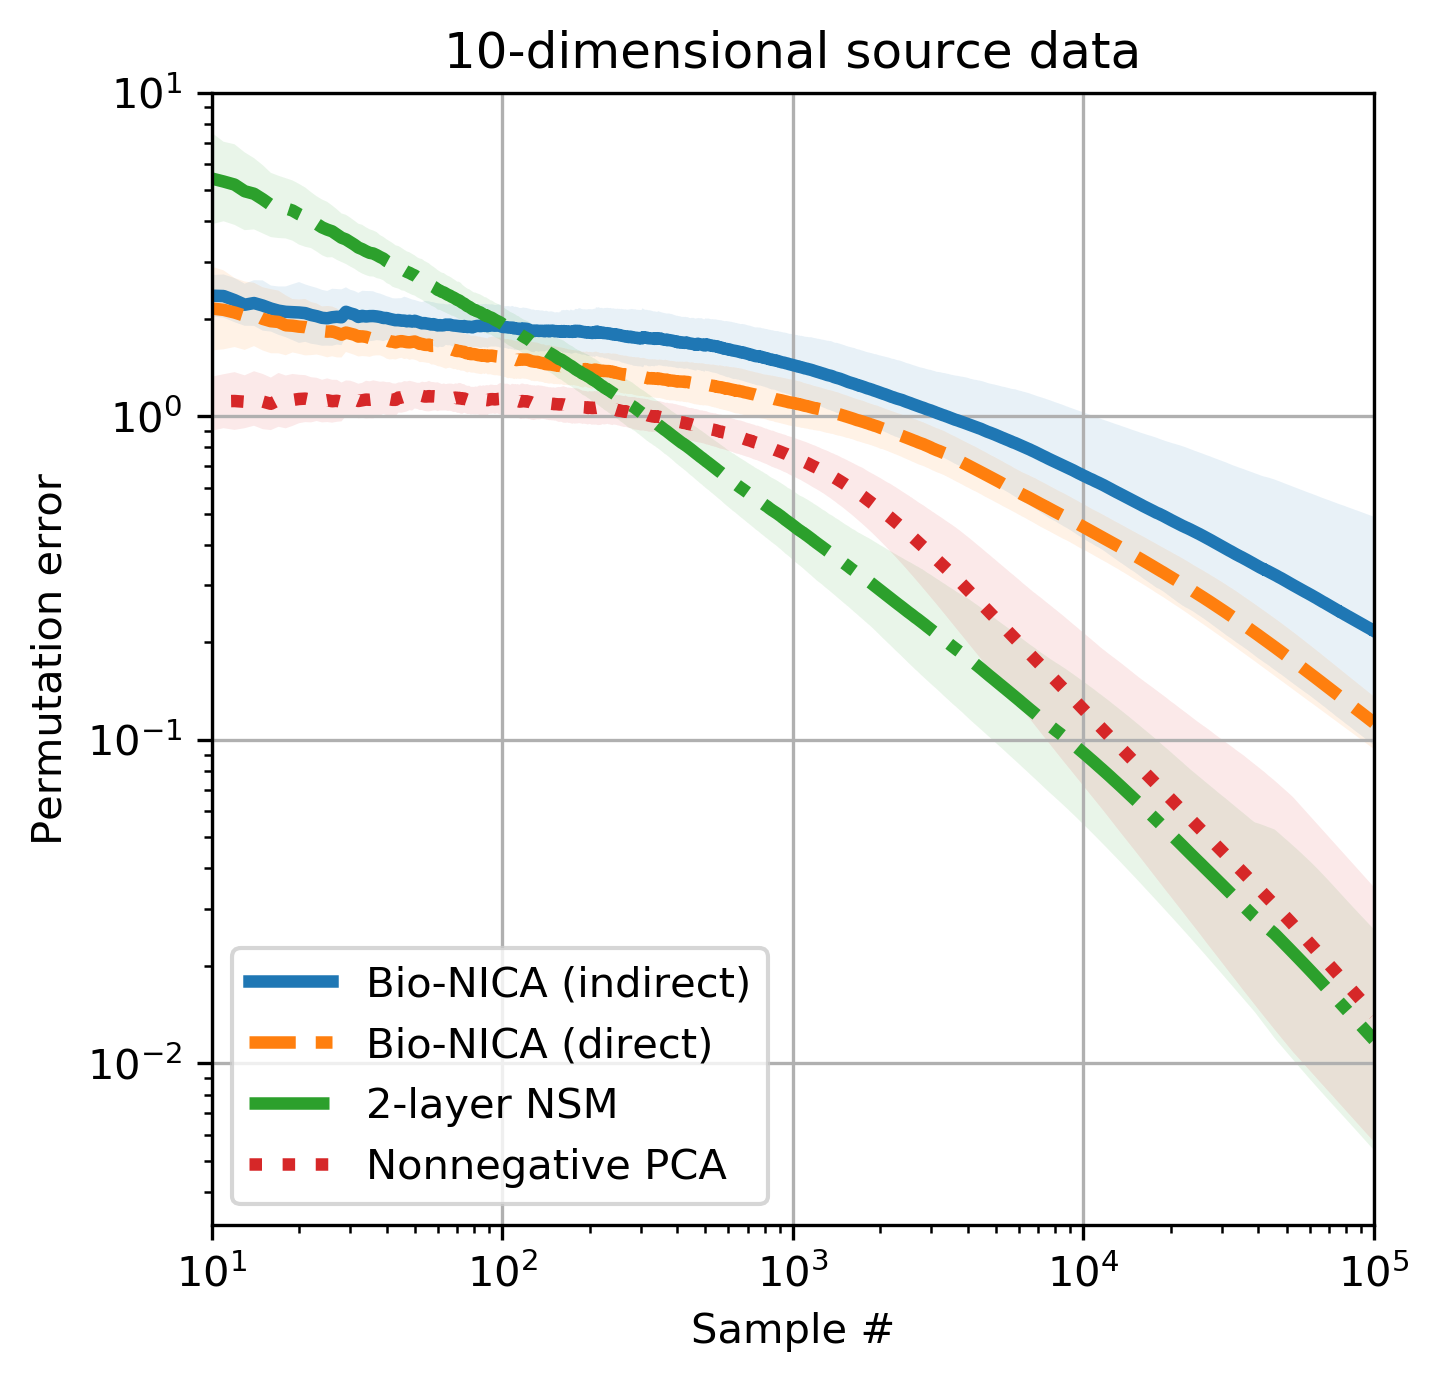
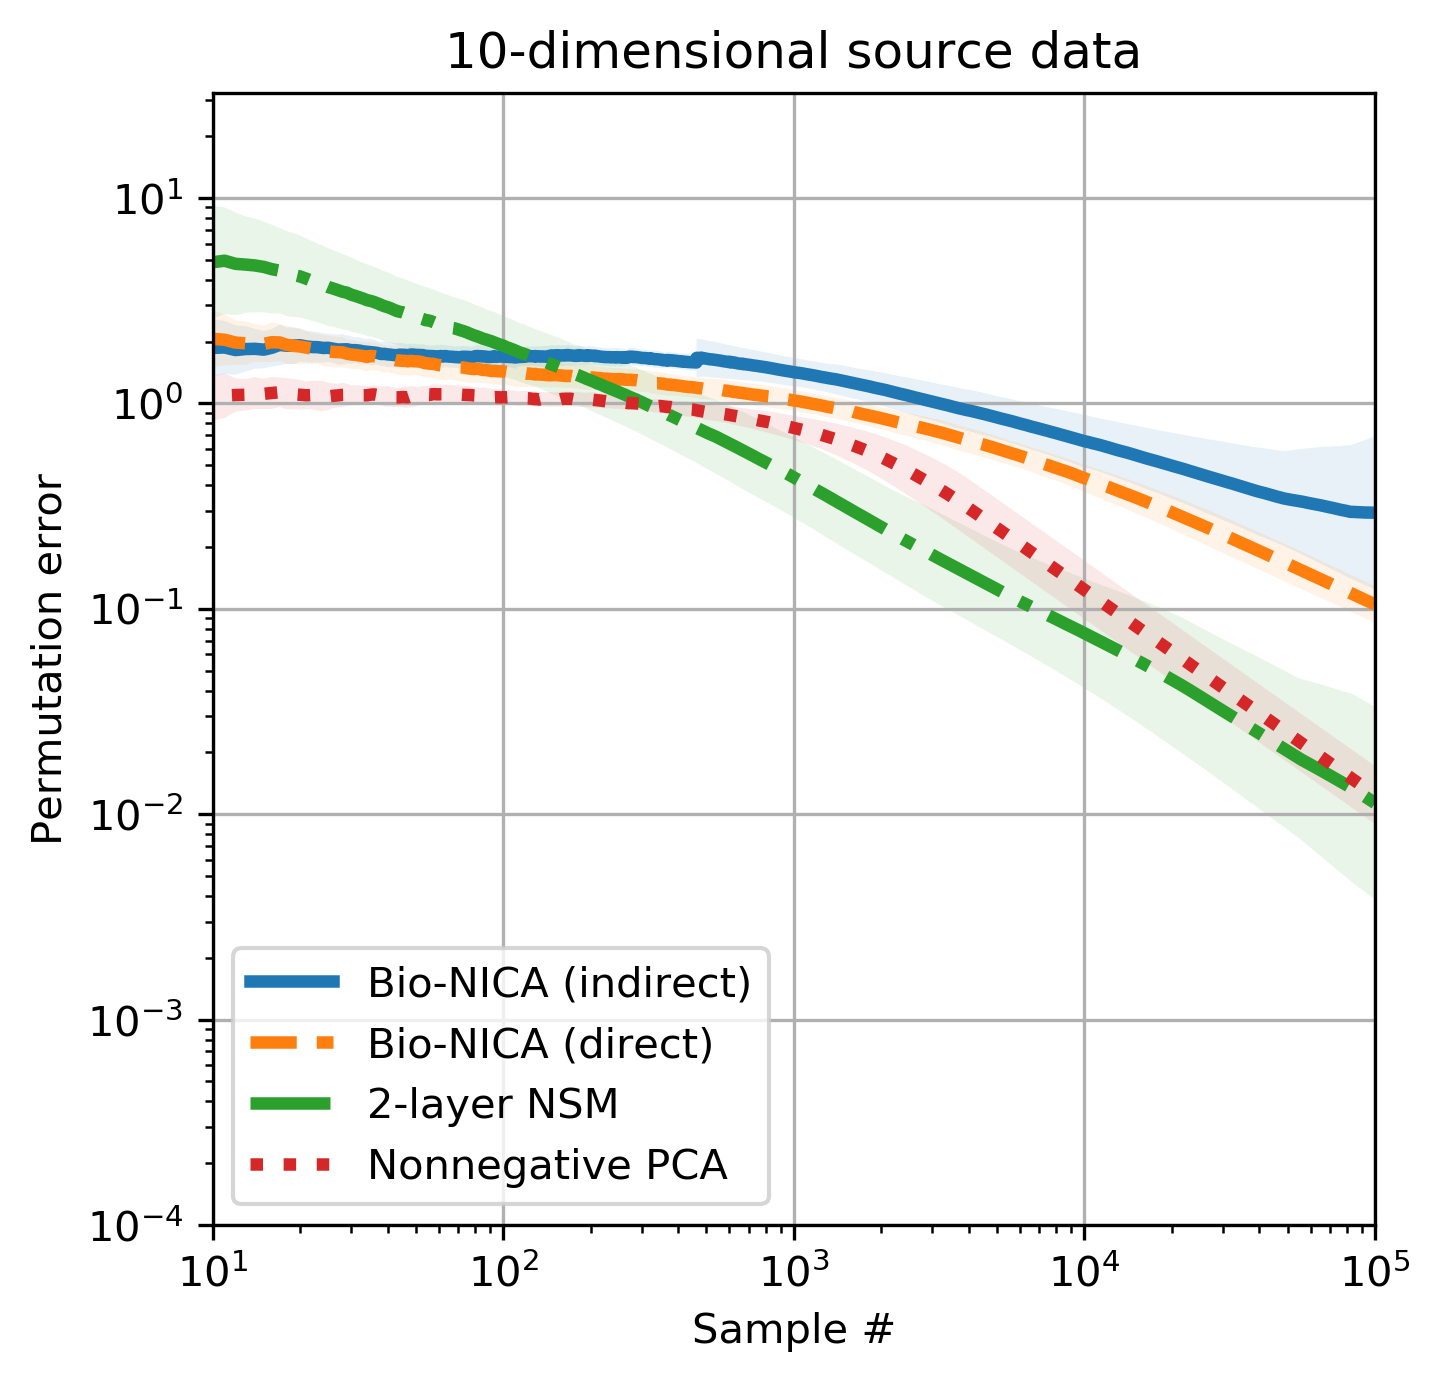
updated plots

diff --git a/nica_algorithms.py b/nica_algorithms.py
@@ -81,14 +81,14 @@ class bio_nica_indirect:
         
         assert x.shape == (self.x_dim,)
 
-        t, s_dim, x_bar, y_bar, n_bar, W, P  = self.t, self.s_dim, self.x_bar, self.y_bar, self.n_bar, self.W, self.P
+        t, s_dim, x_dim, x_bar, y_bar, n_bar, W, P  = self.t, self.s_dim, self.x_dim, self.x_bar, self.y_bar, self.n_bar, self.W, self.P
         
         # project inputs
         
         c = W@x
         
         # neural dynamics
-
+        
         y = solve_qp(P@P.T, c, np.eye(s_dim), np.zeros(s_dim))[0]
         n = P.T@y
 
@@ -113,9 +113,15 @@ class bio_nica_indirect:
         # if so, we add .5*identity and flip the feedforward weights
 
         if np.linalg.det(P@P.T)<1e-4:
-#             print('PP.T close to degenerate')
+            print('PP.T close to degenerate')
             P[:,:s_dim] += .5*np.eye(s_dim)
             W = -W
+
+        for i in range(s_dim):
+            if np.linalg.norm(W[i,:])<1e-4:
+                print('New weights')
+                W = np.random.randn(s_dim,x_dim)/np.sqrt(x_dim)
+                P = np.eye(s_dim)
 
         self.P = P
         self.W = W
@@ -452,9 +458,9 @@ class nonnegative_pca:
                 decay = 1e-5
         else:
             if eta0 is None:
-                eta0 = 0.1
+                eta0 = 1e-2
             if decay is None:
-                decay = 0.001
+                decay = 1e-3
 
         self.t = 0
         self.eta0 = eta0
